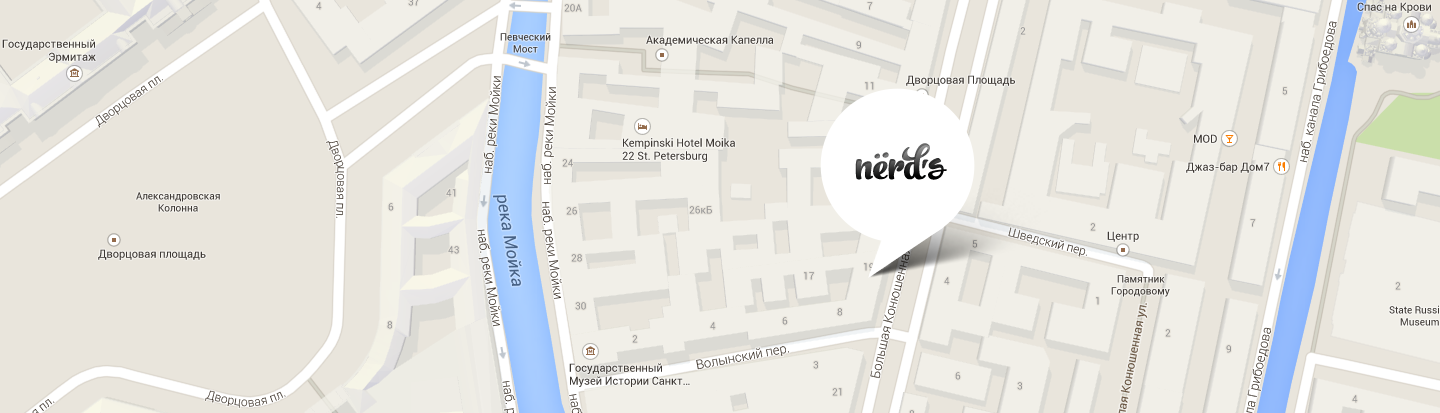
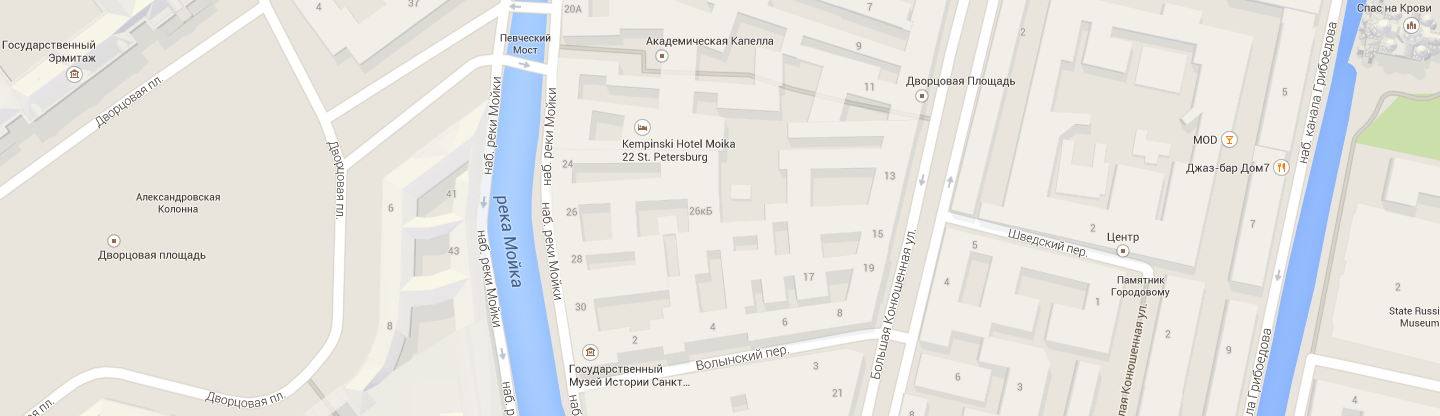
Добавлен Js для формы

diff --git a/index.html b/index.html
@@ -90,10 +90,17 @@
 					<li><a href=""><img src="img/logo-4.png" alt=""></a></li>
 				</ul>
 			</section>
-			<section class="center">
-				<a><img src="img/map.png" alt="Карта"></a>
-			</section>
-			<section class="write-us-form visually-hidden">
+			<div class="map">
+				<a><img src="img/map.png" alt="Карта" width="1440" height="416"></a>
+				<section class="contacts">
+					<h4>Nёrds design studio</h4>
+					<p>191186, Санкт-Петербург,<br>ул. Б. Конюшенная, д. 19/8</p>
+					<p>тел. +7 (812) 275-75-75</p>
+					<a class="write-us-button" href="to-write-us.html">Напишите нам</a>
+				</section>
+			</div>
+			
+			<section class="write-us-form">
 				<h4>Напишите нам</h4>
 				<form class="write-us-fields" name="write-us" action="https://echo.htmlacademy.ru" method="post">
 					<p class="input-fields">
@@ -115,12 +122,6 @@
 						Закрыть
 					</button>
 				</form>
-			</section>
-			<section class="contacts visually-hidden">
-				<h4>Nёrds design studio</h4>
-				<p>191186, Санкт-Петербург,<br>ул. Б. Конюшенная, д. 19/8</p>
-				<p>тел. +7 (812) 275-75-75</p>
-				<a class="write-us-button" href="to-write-us.html">Напишите нам</a>
 			</section>
 		</main>
 		
@@ -151,5 +152,22 @@
 				<p>Скидка 10% для друзей из социальных сетей</p>
 			</div>
 		</footer>
+		<script>
+			var writeUs = document.querySelector(".write-us-button");
+			var writeUsPopup = document.querySelector(".write-us-form");
+			var writeUsClose = document.querySelector(".close-button");
+			var writeName = writeUsPopup.querySelector("[name=field-name]");
+			
+			writeUs.addEventListener("click", function (evt) {
+				evt.preventDefault();
+				writeUsPopup.classList.add("write-us-form-show");
+				writeName.focus();
+			});
+			
+			writeUsClose.addEventListener("click", function (evt) {
+				evt.preventDefault();
+				writeUsPopup.classList.remove("write-us-form-show");
+			});
+		</script>
 	</body>
 </html>

diff --git a/css/style.css b/css/style.css
@@ -1001,13 +1001,27 @@ img {
 	opacity: 0.3;
 }
 
-/*окно контакты*/
+/*карта контакты*/
+
+.map {
+	position: relative;
+	
+	width: 1440px;
+	margin: 0px auto;
+}
 
 .contacts {
+	content: "";
+	
+	position: absolute;
+	top: 55px;
+	left: 140px;
+	
 	width: 220px;
 	padding: 0px;
 	margin: 0px;
 	padding: 50px;
+	background-color: #ffffff;
 }
 
 .contacts h4 {
@@ -1095,9 +1109,15 @@ img {
 }
 
 .write-us-form {
+	display: none;
+	
 	width: 960px;
 	margin-left: auto;
 	margin-right: auto;
+}
+
+.write-us-form-show {
+	display: block;
 }
 
 .write-us-form input,
@@ -1150,7 +1170,6 @@ img {
 	margin: 0px;
 	margin-top: 12px;
 	
-	
 	width: 760px;
 }
 
@@ -1158,7 +1177,6 @@ img {
 	padding: 0px;
 	margin: 0px;
 }
-
 
 .send-button {
 	font: inherit;

diff --git a/catalog.html b/catalog.html
@@ -170,7 +170,7 @@
 			<section class="center">
 				<a><img src="img/map.png" alt="Карта"></a>
 			</section>
-			<section class="write-us-form visually-hidden">
+			<section class="write-us-form">
 				<h4>Напишите нам</h4>
 				<form class="write-us-fields" name="write-us" action="https://echo.htmlacademy.ru" method="post">
 					<p class="input-fields">
